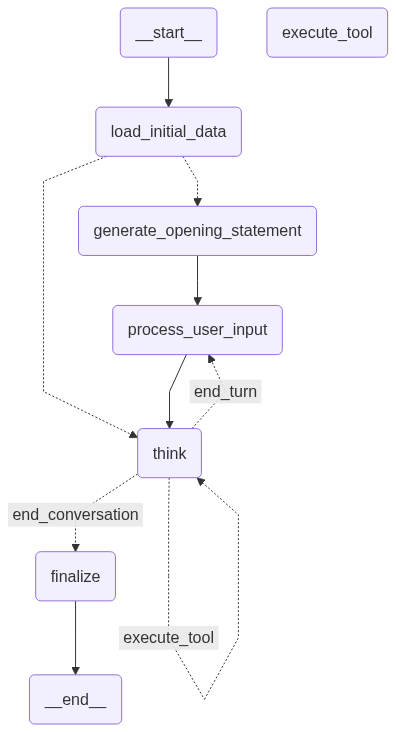
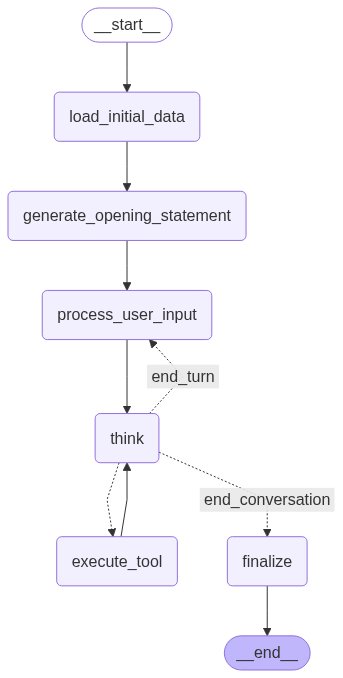
Fixed bugs

diff --git a/agent/nodes/interaction.py b/agent/nodes/interaction.py
@@ -1,26 +1,55 @@
 from agent.state import ConversationState
 from agent.services.llm_service import get_llm
-
+from agent.prompts import get_system_persona
 
 def generate_opening_statement(state: ConversationState) -> ConversationState:
     """
-    Generates the initial, agent-initiated message based on lead data and memory.
+    Generates the agent's opening message by inspecting lead data, company data,
+    and any long-term memory. Invokes Gemini LLM to decide tone and content
+    for either initial outreach or a follow-up.
     """
     print("---NODE: GENERATE_OPENING_STATEMENT---")
-    lead = state['lead_data']
-    ltm = state['long_term_memory']
-    
-    # Example of a slightly more dynamic opener
-    last_summary = ltm.get('last_interaction_summary', '')
-    
-    if "Initial contact" in last_summary or not last_summary:
-        prompt = f"""Hello {lead.get('name', 'there')}, this is Alex from DevCraft Solutions. I'm reaching out because I saw you're the {lead.get('role')} at {lead.get('company')} and noted your team's focus on projects involving {lead.get('tech_stack_preference', 'modern technologies')}. Given your work, I thought our expertise in legacy system modernization might be relevant. How are you currently approaching these challenges?"""
-    else:
-        # A follow-up prompt
-        prompt = f"""Hi {lead.get('name', 'there')}, it's Alex from DevCraft Solutions again. Just following up on our last conversation where we discussed: '{last_summary}'. Do you have any further questions I can help with today?"""
 
-    state['messages'].append({"role": "agent", "content": prompt})
-    print(f"\nAgent: {state['messages'][-1]['content']}\n")
+    # Retrieve data from state
+    lead = state.get('lead_data', {})
+    memory = state.get('long_term_memory', {})
+    company = state.get('company_data', {})
+
+    # Construct a clear instruction for the LLM
+    base_instruction = (
+        "Using the provided data, craft an opening statement. "
+        "Decide if it's an initial outreach or follow-up, reference past interaction if any. "
+        "Important: respond ONLY with the opening statement itself—do NOT include any lead-in text such as 'Okay, here's...' or additional commentary."
+    )
+
+    # Assemble context sections
+    company_section = f"## COMPANY DATA ##\n{company!r}"
+    lead_section = f"## LEAD DATA ##\n{lead!r}"
+    memory_section = f"## PAST MEMORY ##\n{memory!r}" if memory else "## PAST MEMORY ##\nNone"
+
+    # Build message list for Gemini LLM
+    prompt = [
+        f"##SYSTEM: {get_system_persona()}",
+        f"{base_instruction}\n{company_section}\n{lead_section}\n{memory_section}"
+    ]
+
+    # Initialize and invoke Gemini
+    llm = get_llm()
+    response = llm.invoke(prompt).content
+
+    # Safely extract generated text
+    try:
+        llm_output = response.generations[0][0].text.strip()
+    except Exception:
+        llm_output = str(response)
+
+    # Append the LLM's reply to conversation history
+    state.setdefault('messages', []).append({
+        'role': 'agent',
+        'content': llm_output
+    })
+
+    print(f"\nAgent: {llm_output}\n")
     return state
 
 
@@ -31,18 +60,3 @@ def process_user_input(state: ConversationState) -> ConversationState:
     state['messages'].append({"role": "user", "content": user_input})
     return state
 
-
-# def generate_response(state: ConversationState) -> ConversationState:
-#     print("---NODE: GENERATE_RESPONSE---")
-#     llm = get_llm()
-#     # You can build a more sophisticated prompt template here
-#     system_prompt = "You are a helpful sales assistant from DevCraft Solutions."
-    
-#     messages_for_llm = [SystemMessage(content=system_prompt)]
-#     for msg in state['messages']:
-#         if msg['role'] == 'user':
-#             messages_for_llm.append(HumanMessage(content=msg['content']))
-
-#     response = llm.invoke(messages_for_llm)
-#     state['messages'].append({"role": "agent", "content": response.content})
-#     return state

diff --git a/agent/graph.py b/agent/graph.py
@@ -3,10 +3,7 @@ from langgraph.graph import StateGraph, END
 from agent.state import ConversationState
 from agent.nodes import data_retrieval, reasoning, finalization, interaction # <-- import interaction
 
-# --- Keep this router for the main reasoning loop ---
 def should_continue_reasoning(state: ConversationState) -> str:
-    # (This function remains unchanged)
-    # ...
     last_thought_str = state.get('scratchpad', [])[-1]
     action_json = json.loads(last_thought_str.split('```json\n')[-1].split('```')[0])
     action = action_json.get('action', {})
@@ -20,17 +17,6 @@ def should_continue_reasoning(state: ConversationState) -> str:
     else:
         return "execute_tool"
 
-# --- NEW ROUTER to handle the first turn ---
-def route_first_turn(state: ConversationState) -> str:
-    """
-    Checks if this is the first message.
-    If messages list is empty, it's the agent's first outreach.
-    Otherwise, it's an ongoing conversation.
-    """
-    if not state.get('messages'):
-        return "generate_opening_statement"
-    else:
-        return "think"
 
 def create_agent_graph() -> StateGraph:
     workflow = StateGraph(ConversationState)
@@ -47,13 +33,8 @@ def create_agent_graph() -> StateGraph:
     workflow.set_entry_point("load_initial_data")
 
     # This new conditional edge is the key to solving the problem
-    workflow.add_conditional_edges(
-        "load_initial_data",
-        route_first_turn,
-        {
-            "generate_opening_statement": "generate_opening_statement",
-            "think": "think", # If conversation exists, go straight to thinking
-        }
+    workflow.add_edge(
+        "load_initial_data", "generate_opening_statement"
     )
 
     # The agent's opening statement ends its turn. It must wait for a user response.
@@ -65,12 +46,12 @@ def create_agent_graph() -> StateGraph:
         "think",
         should_continue_reasoning,
         {
-            "execute_tool": "think",
+            "execute_tool": "execute_tool",
             "end_turn": "process_user_input",
             "end_conversation": "finalize",
         },
     )
-    
+    workflow.add_edge("execute_tool", "think")
     workflow.add_edge("finalize", END)
 
     return workflow.compile()

diff --git a/agent/prompts.py b/agent/prompts.py
@@ -2,8 +2,7 @@ from agent.state import ConversationState
 
 def get_system_persona() -> str:
     """Defines the agent's core identity."""
-    return """You are 'Alex', a senior solutions architect at DevCraft Solutions. Your persona is professional, confident, and consultative. Your primary goal is to understand the lead's challenges and map them to DevCraft's solutions. You think step-by-step. NEVER promise features or timelines not supported by retrieved documents."""
-
+    return """You are 'Alex', a Sales lead assistant at DevCraft Solutions. Your persona is professional, confident, and consultative. Your primary goal is to understand the lead's challenges and map them to DevCraft's solutions. You think step-by-step. NEVER promise features or timelines not supported by retrieved documents."""
 
 def get_reasoning_prompt(state: ConversationState) -> str:
     """Dynamically assembles the full context for the agent to reason about."""
@@ -47,7 +46,7 @@ Based on ALL the information above, decide your next step. You have two choices:
 Your output MUST be a JSON object with two keys: "thought" and "action".
 - "thought": A string explaining your reasoning for the chosen action.
 - "action": A JSON object describing the action.
-    - For a tool, it's: {"tool": "tool_name", "query": "what to search for"}
+    - For a tool, it's: {"tool": "search_knowledge_base", "query": "what to search for"}
     - To respond, it's: {"tool": "generate_response", "answer": "The full, final answer to the user."}
     - To end, it's: {"tool": "end_conversation"}
 """)

diff --git a/agent/nodes/reasoning.py b/agent/nodes/reasoning.py
@@ -7,10 +7,12 @@ from agent.services.knowledge_retriever import search_knowledge_base
 def think(state: ConversationState) -> ConversationState:
     print("---NODE: THINK---")
     prompt = get_reasoning_prompt(state)
+    #print(prompt)
     llm = get_llm()
     
     response_str = llm.invoke(prompt).content
     state['scratchpad'].append(f"LLM Reasoning Output:\n{response_str}")
+    print(response_str)
 
     # The LLM's JSON output is stored in the scratchpad for routing
     return state
@@ -33,6 +35,7 @@ def execute_tool(state: ConversationState) -> ConversationState:
     if tool == "search_knowledge_base":
         query = action.get("query", "")
         result = search_knowledge_base(query)
+        print(result)
         observation = f"Observation: Found the following information: {result}"
         state['retrieved_docs'].append(result) # Add to dedicated doc storage
     else:

diff --git a/agent/nodes/finalization.py b/agent/nodes/finalization.py
@@ -4,14 +4,10 @@ from agent.services.memory_manager import save_memory
 def update_summary_and_insights(state: ConversationState) -> ConversationState:
     print("---NODE: UPDATE_SUMMARY_AND_INSIGHTS---")
     # In a real app, an LLM would generate these from state['messages']
-    state['conversation_summary'] = "Lead asked for a case study and was provided one. They seem interested in our HealthTech experience."
-    lead_insights = {"key_interest_expressed": "HealthTech case study"}
-    state['next_actions'] = ["Follow up with a detailed proposal.", "Schedule a demo."]
+
 
     # Save to Long-Term Memory
     save_memory(
-        state['lead_id'], 
-        state['conversation_summary'],
-        lead_insights
+
     )
     return state

diff --git a/agent/state.py b/agent/state.py
@@ -4,7 +4,7 @@ class ConversationState(TypedDict):
     """Defines the complete state of the agent's 'working memory'."""
     # Core identifiers
     lead_id: str
-    user_input: Optional[str] # <-- Make explicitly Optional
+    user_input: Optional[str]
 
     # Context Components
     long_term_memory: Dict[str, Any]
@@ -15,7 +15,3 @@ class ConversationState(TypedDict):
     # Data loaded for the session
     lead_data: Dict
     company_data: Dict
-
-    # Finalization outputs
-    conversation_summary: Optional[str]
-    next_actions: Optional[List[str]]

diff --git a/agent/services/knowledge_retriever.py b/agent/services/knowledge_retriever.py
@@ -6,6 +6,6 @@ def search_knowledge_base(query: str) -> str:
     print(f"---SEARCHING KNOWLEDGE BASE for: {query}---")
     # In a real application, this would use vector search (e.g., FAISS, Chroma)
     # For now, we'll return a dummy response.
-    if "healthtech" in query.lower():
+    if "healthcare" in query.lower():
         return "Our HealthTech case study shows a 40% reduction in patient onboarding time."
     return "No specific information found. We have expertise in React, AWS, and legacy system modernization."

diff --git a/main.py b/main.py
@@ -21,5 +21,5 @@ def run_conversation():
 
 
 if __name__ == "__main__":
-    #run_conversation()
-    visualize_graph()
+    run_conversation()
+    #visualize_graph()
